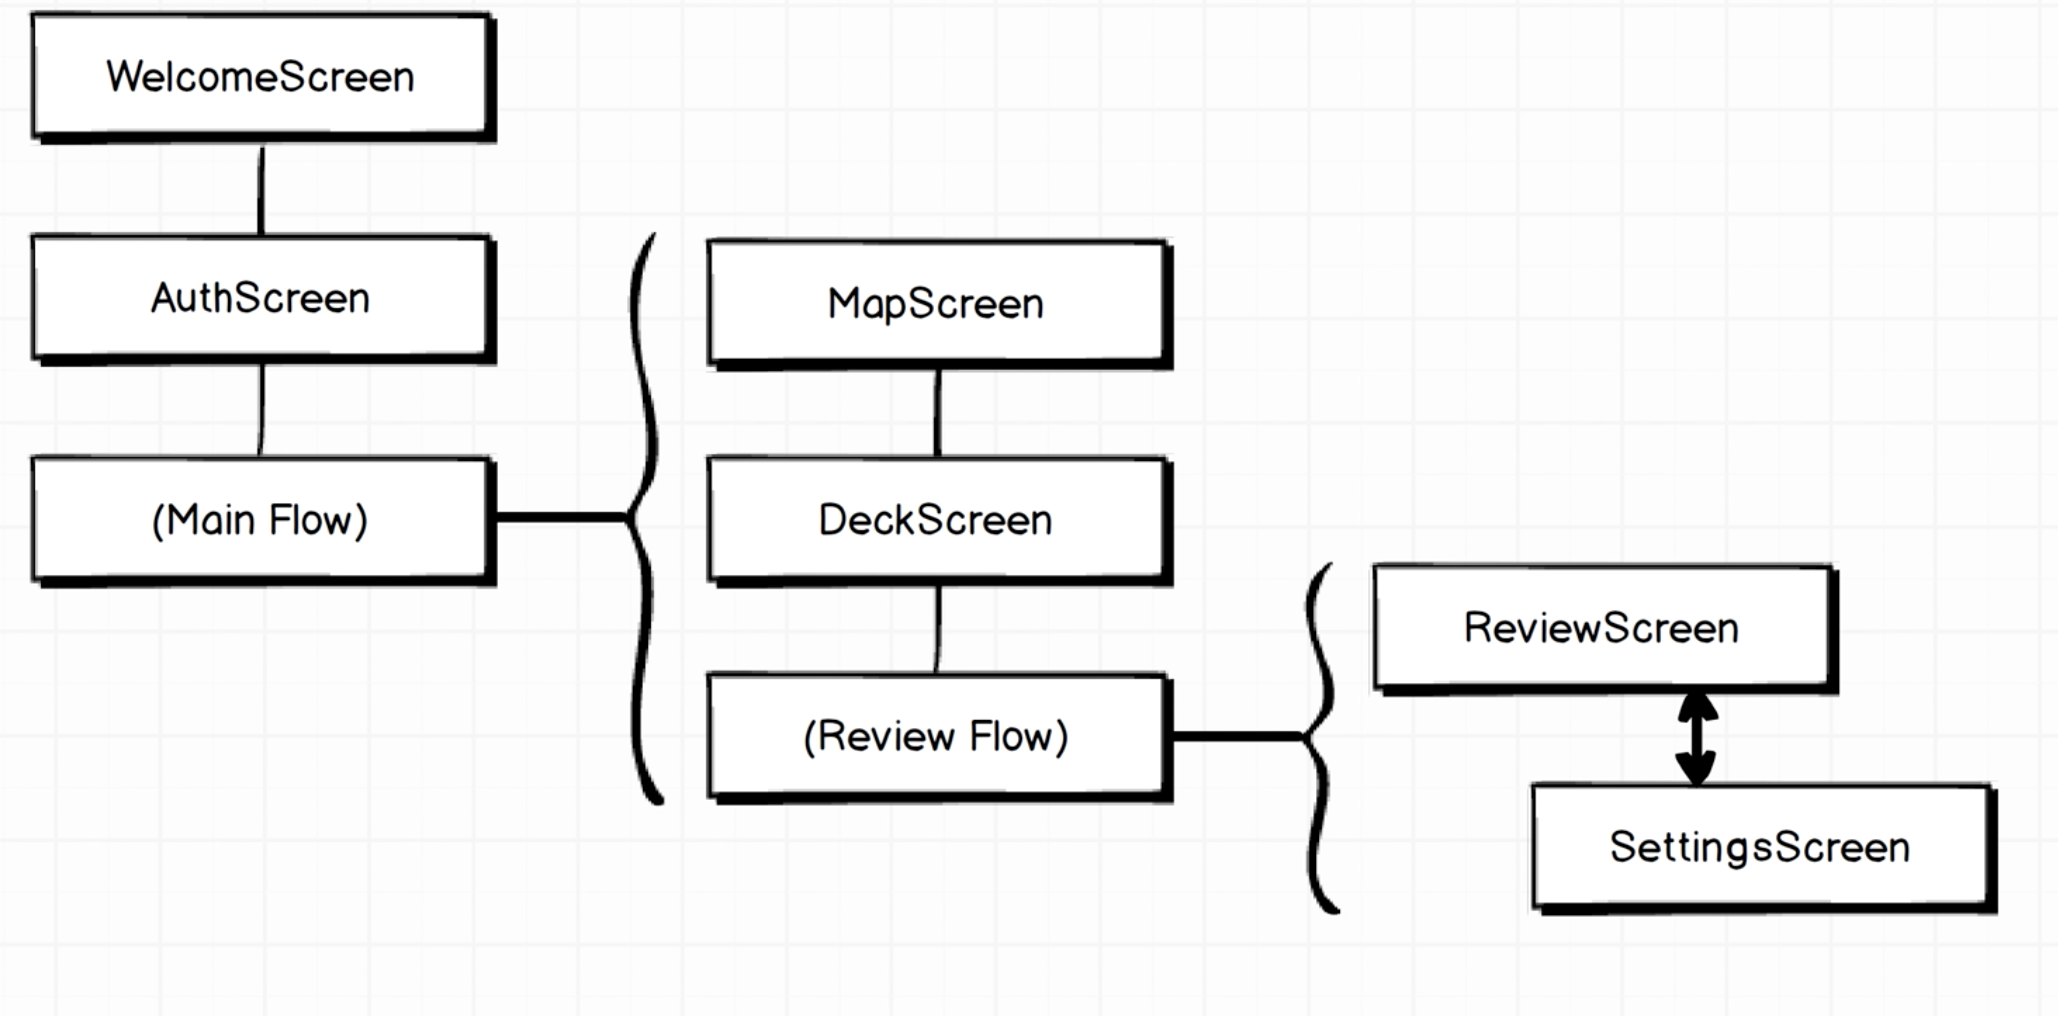
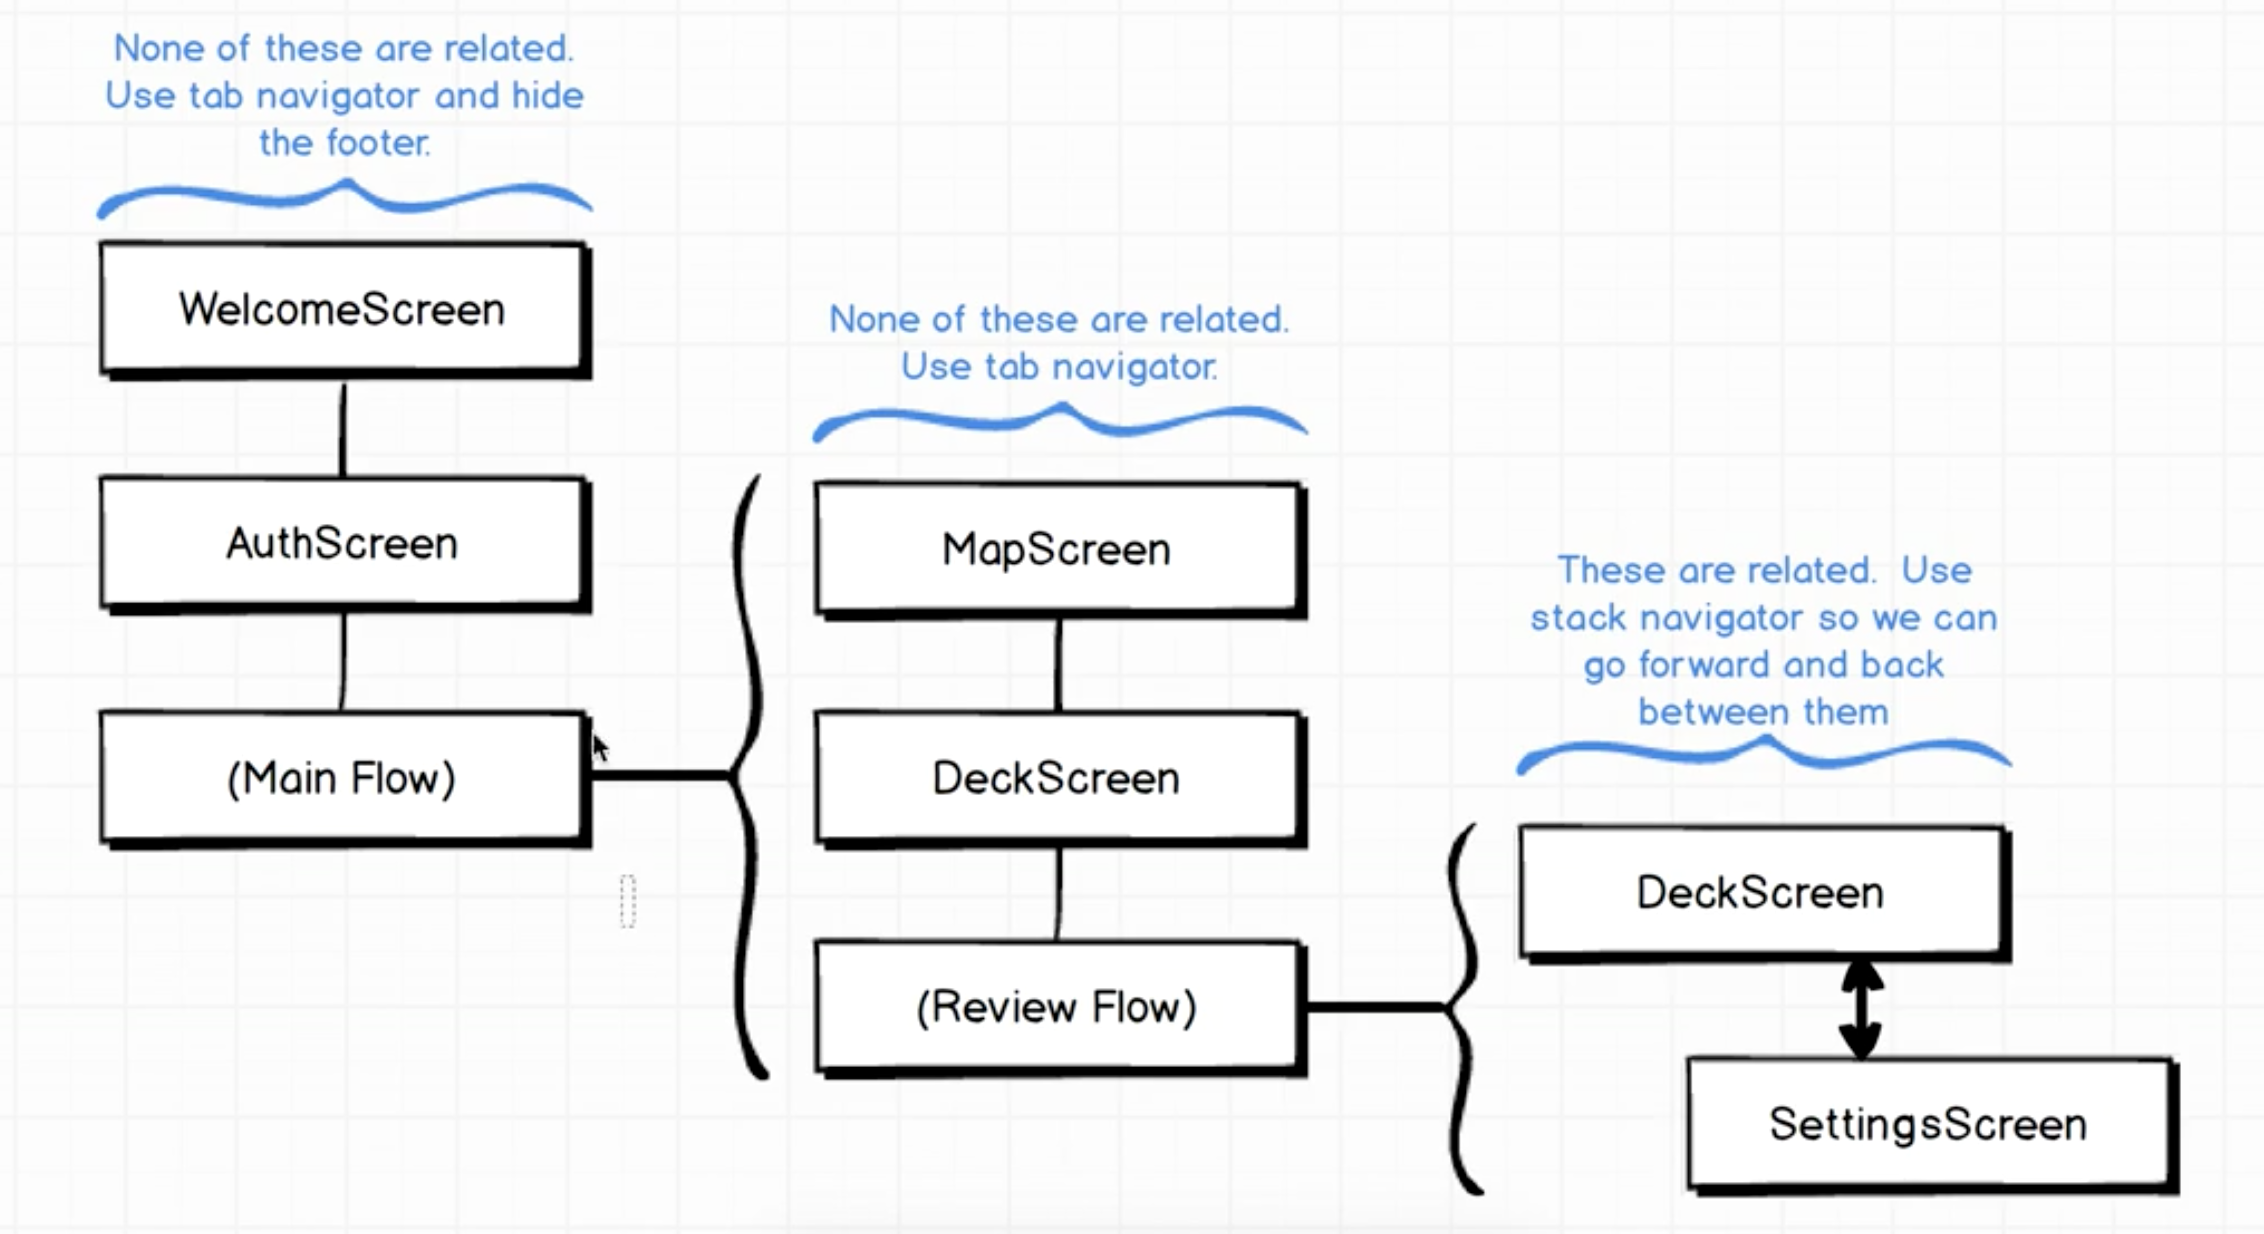
added navigations

Changed region(s): [[0.0, 0.0, 0.9951, 0.9764], [0.0933, 0.6102, 0.2177, 0.6407]]

diff --git a/jobs/main.js b/jobs/main.js
@@ -1,13 +1,39 @@
 import Expo from 'expo';
 import React from 'react';
-import { StyleSheet, Text, View } from 'react-native';
+import { StyleSheet, View } from 'react-native';
+import { TabNavigator, StackNavigator } from 'react-navigation';
+import AuthScreen from './screens/AuthScreen';
+import WelcomeScreen from './screens/WelcomeScreen';
+import DeckScreen from './screens/DeckScreen';
+import MapScreen from './screens/MapScreen';
+import ReviewScreen from './screens/ReviewScreen';
+import SettingsScreen from './screens/SettingsScreen';
 
 class App extends React.Component {
   render() {
+    const routesConfig = {
+      welcome: { screen: WelcomeScreen },
+      auth: { screen: AuthScreen },
+      main: {
+        screen: TabNavigator({
+          map: { screen: MapScreen },
+          deck: { screen: DeckScreen },
+          review: {
+            screen: StackNavigator({
+              review: { screen: ReviewScreen },
+              settings: { screen: SettingsScreen }
+            })
+          }
+        })
+      }
+    };
+    const tabNavigatorConfig = {
+      activeTintColor: '#e91e63',
+    };
+    const MainNavigator = TabNavigator(routesConfig, tabNavigatorConfig);
+
     return (
-      <View style={styles.container}>
-        <Text>Open up main.js to start working on your app!</Text>
-      </View>
+      <MainNavigator />
     );
   }
 }

diff --git a/README.md b/README.md
@@ -13,3 +13,6 @@ Installing `react-navigation`
 ```bash
 npm install --save react-navigation
 ```
+
+### Coding Standards
+I am currently following coding Standards from [airbnb](https://github.com/airbnb/javascript/tree/master/react).
